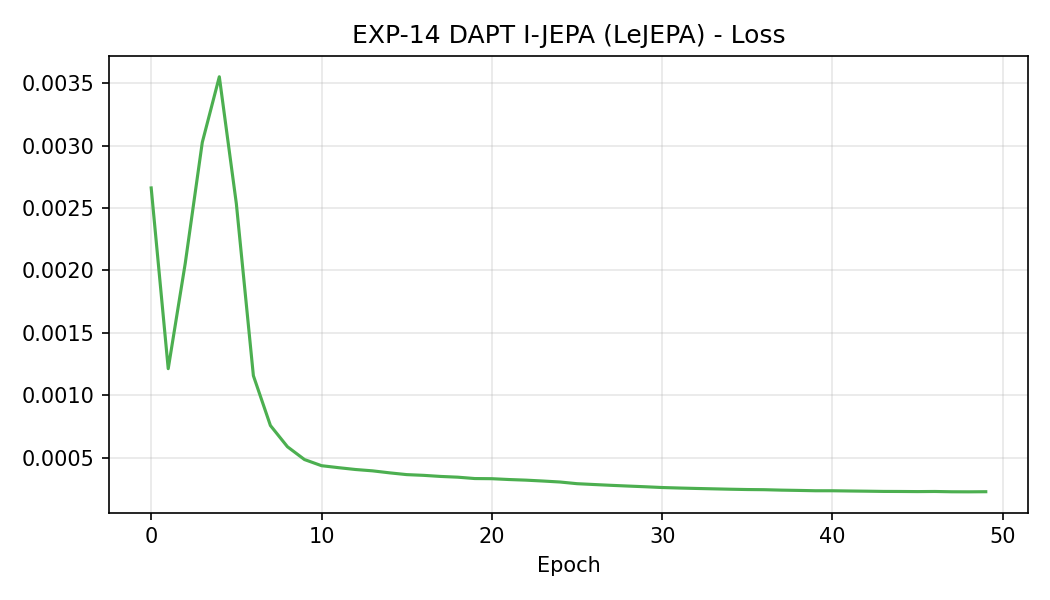
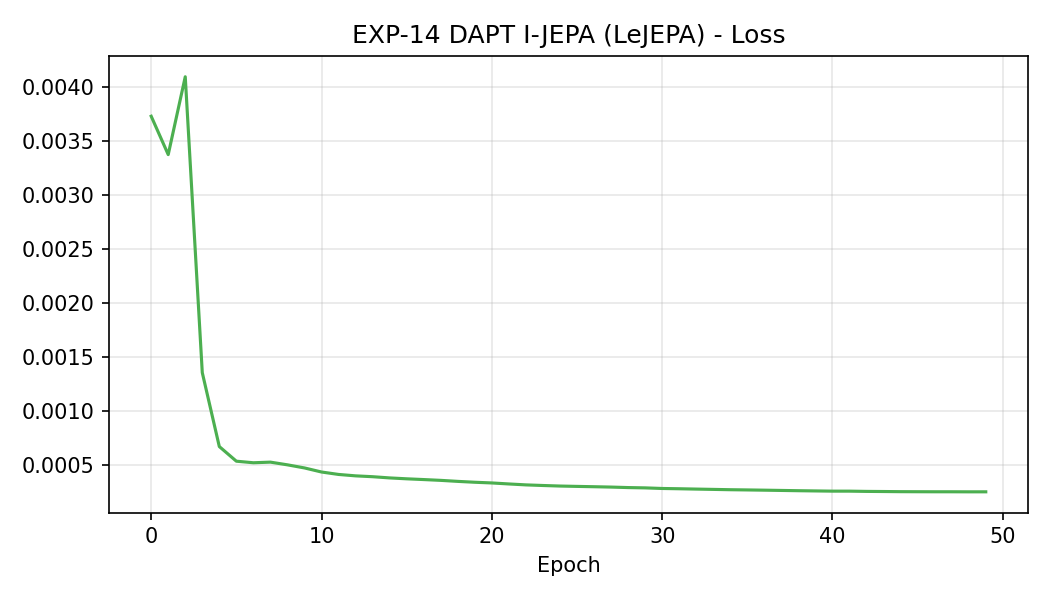
[EXP14_DAPT_LeJEPA] init=LeJEPA (in-domain); corpus_images=12400; epochs=50; mask_ratio=0.55; final_loss=0.0003; best_loss=0.0003; poids=exp14_dapt_lejepa_best.pth

diff --git a/experiments/EXP14_DAPT_LeJEPA/summary.md b/experiments/EXP14_DAPT_LeJEPA/summary.md
@@ -1,5 +1,5 @@
 # EXP14_DAPT_LeJEPA
-*2026-06-20 22:42*
+*2026-06-21 11:14*
 
 ## Metriques
 | Metrique | Valeur |
@@ -8,8 +8,8 @@
 | corpus_images | 12400 |
 | epochs | 50 |
 | mask_ratio | 0.55 |
-| final_loss | 0.0002 |
-| best_loss | 0.0002 |
+| final_loss | 0.0003 |
+| best_loss | 0.0003 |
 | poids | exp14_dapt_lejepa_best.pth |
 
 ## Notes